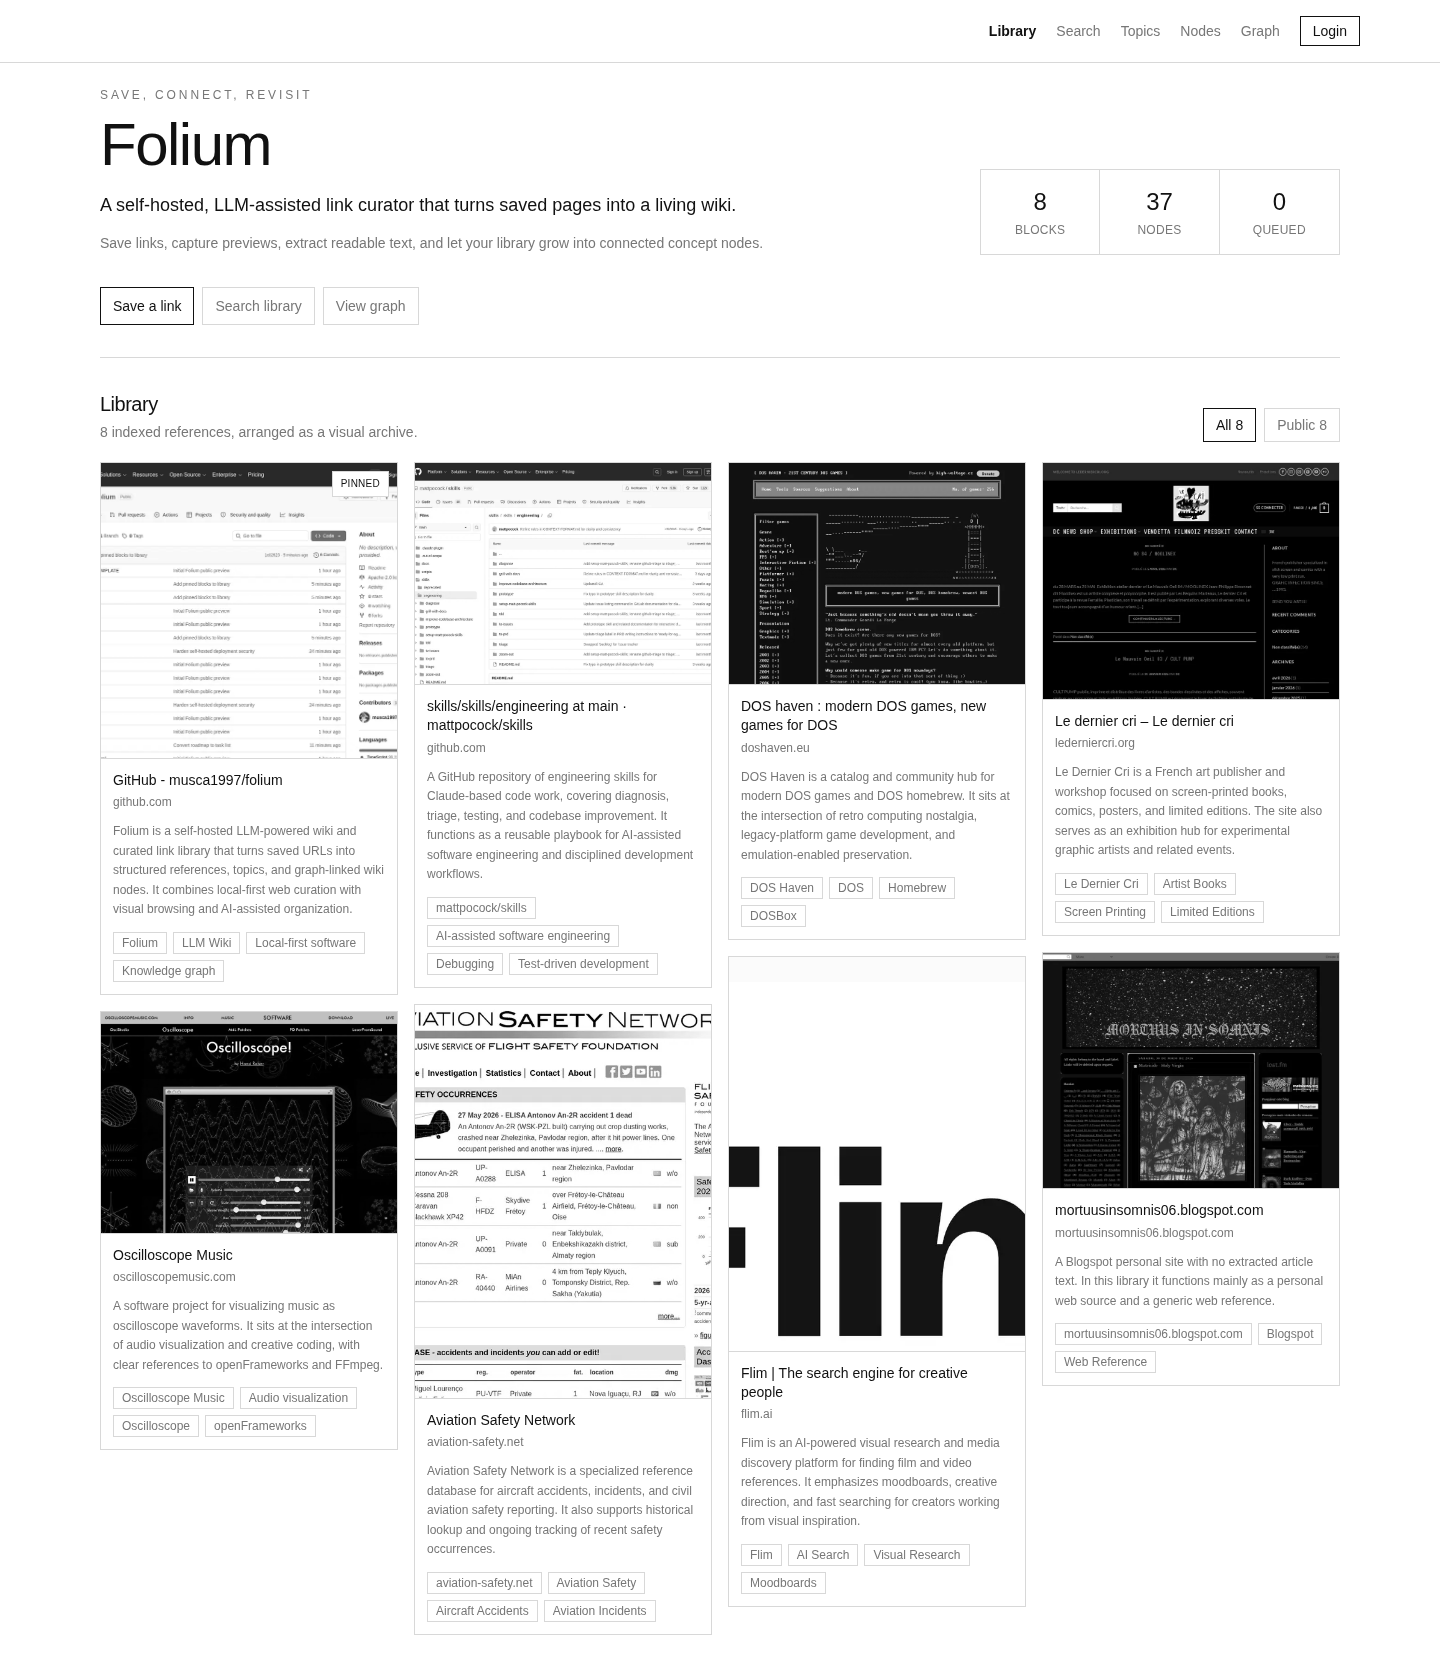
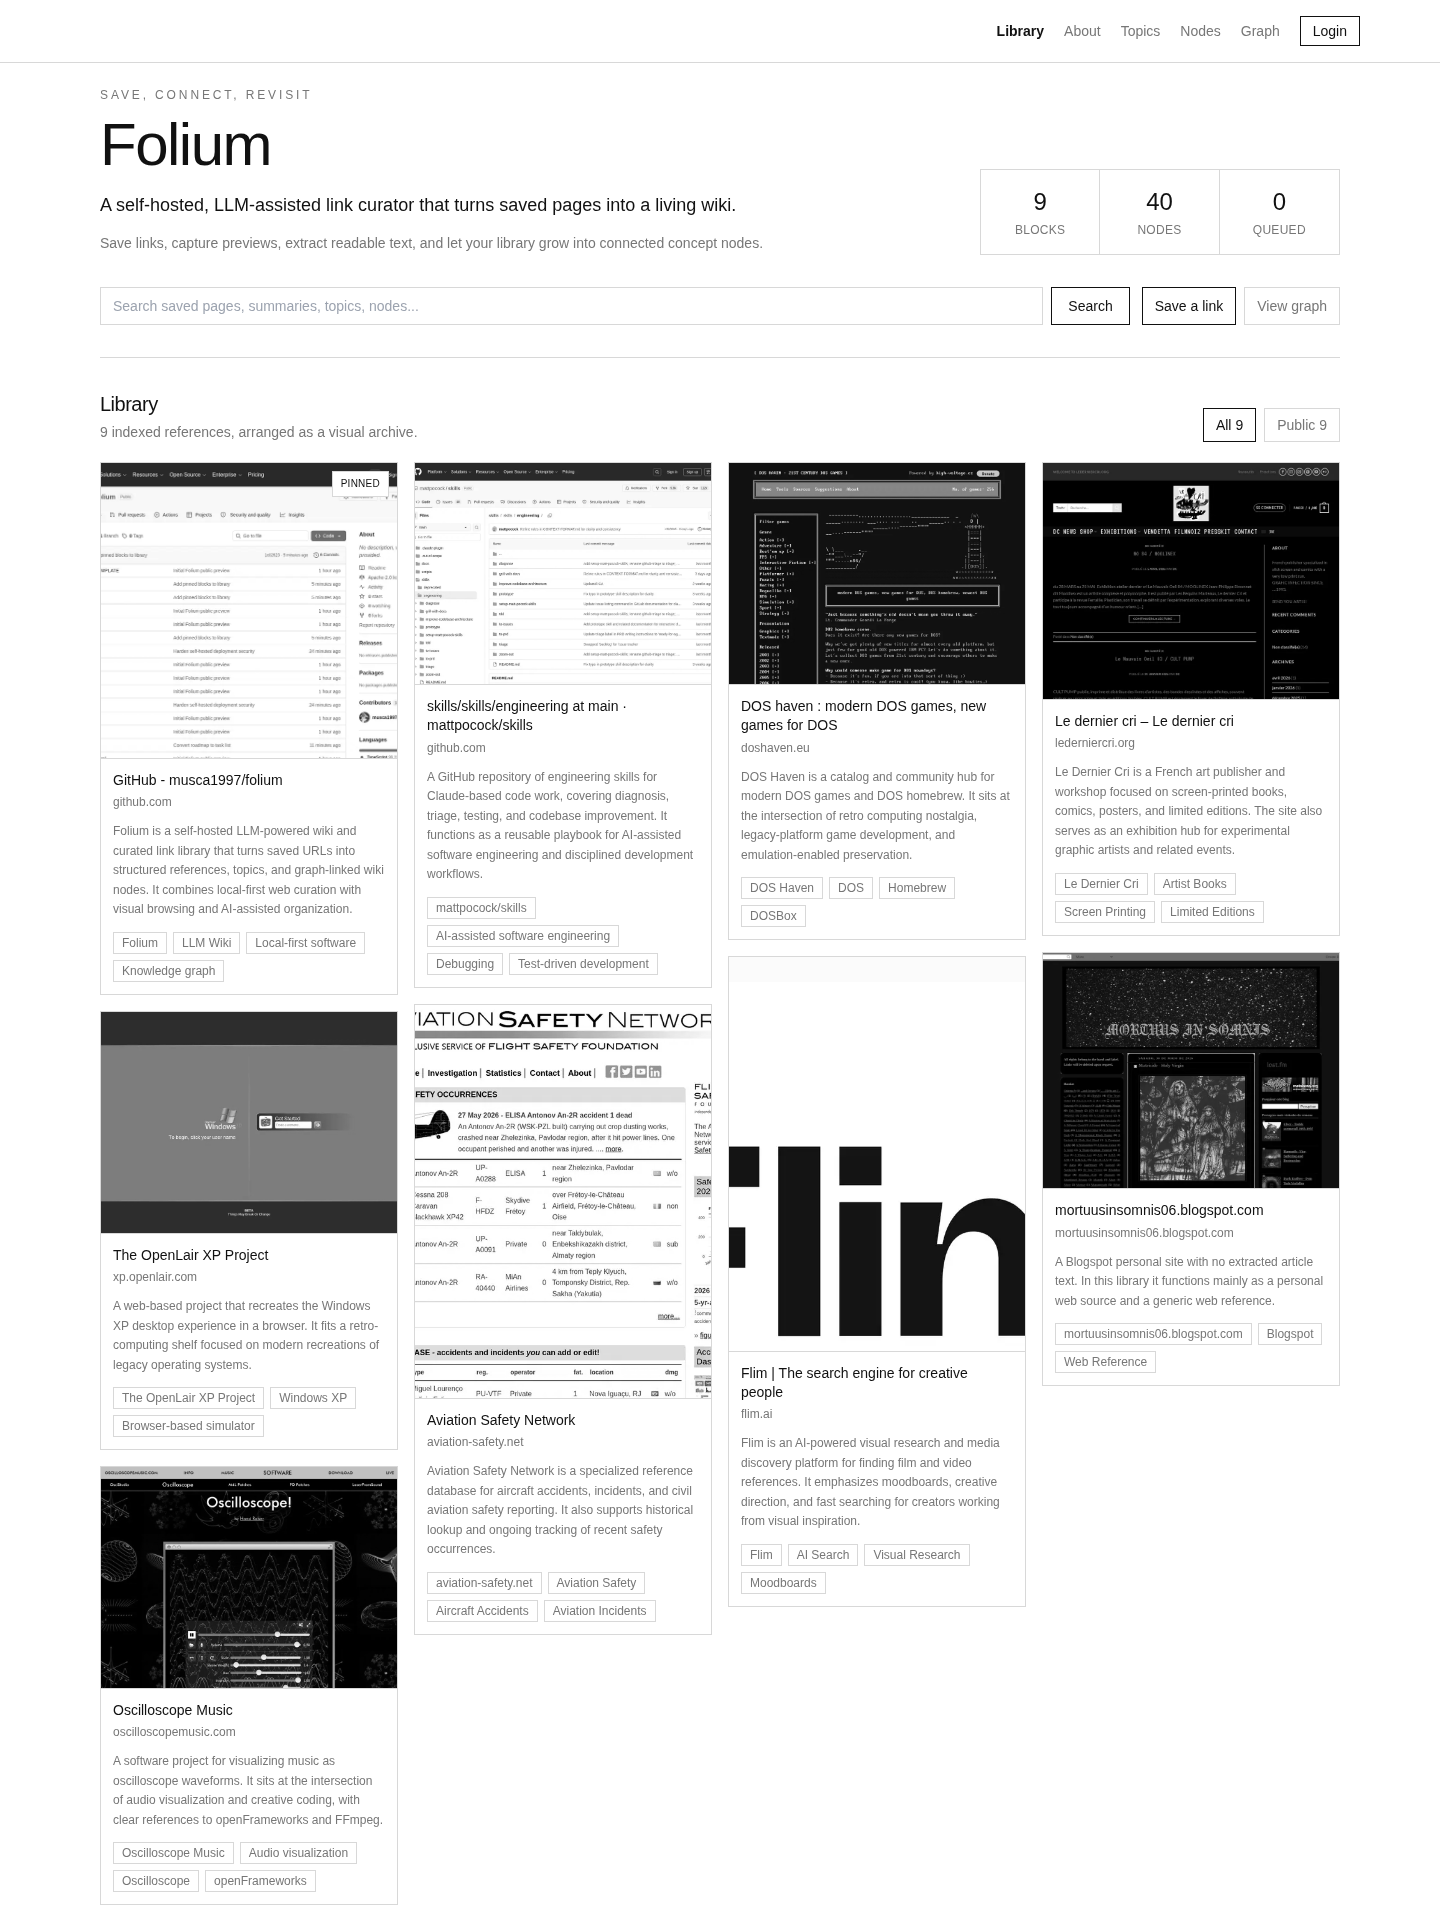
Move search to home and add about page

diff --git a/app/about/page.tsx b/app/about/page.tsx
@@ -1,0 +1,51 @@
+import Link from "next/link";
+import { Header } from "@/components/Header";
+import { PageIntro } from "@/components/PageIntro";
+
+export default function AboutPage() {
+  return (
+    <>
+      <Header />
+      <main className="mx-auto max-w-5xl px-5 py-6">
+        <PageIntro
+          eyebrow="About"
+          title="Folium is a quiet library for the web you keep."
+          description="A self-hosted, LLM-assisted link curator that turns saved pages into structured references, reusable topics, and a small personal wiki."
+        />
+
+        <section className="grid gap-6 md:grid-cols-3">
+          <div className="border border-line p-5">
+            <p className="text-xs uppercase tracking-wide text-muted">Save</p>
+            <p className="mt-3 text-sm leading-relaxed text-muted">
+              Save links with readable text extraction, visual previews, and private-by-default visibility.
+            </p>
+          </div>
+          <div className="border border-line p-5">
+            <p className="text-xs uppercase tracking-wide text-muted">Connect</p>
+            <p className="mt-3 text-sm leading-relaxed text-muted">
+              Let LLM analysis organize pages into broad topics, reusable wiki nodes, references, and graph connections.
+            </p>
+          </div>
+          <div className="border border-line p-5">
+            <p className="text-xs uppercase tracking-wide text-muted">Revisit</p>
+            <p className="mt-3 text-sm leading-relaxed text-muted">
+              Browse your library through a visual grid, search, topics, nodes, and a graph without turning it into a raw bookmark dump.
+            </p>
+          </div>
+        </section>
+
+        <section className="mt-8 border border-line p-6">
+          <h2 className="text-xl font-normal tracking-tight">Built for self-hosting</h2>
+          <p className="mt-3 max-w-3xl text-sm leading-relaxed text-muted">
+            Folium is currently designed as a single-user self-hosted app. Public browsing can be enabled for public blocks, while adding,
+            editing, processing, account settings, API tokens, and private content require login.
+          </p>
+          <div className="mt-5 flex flex-wrap gap-2 text-sm">
+            <Link href="/" className="border border-ink px-3 py-2 hover:bg-ink hover:text-white">Open library</Link>
+            <Link href="https://github.com/musca1997/folium" className="border border-line px-3 py-2 text-muted hover:border-ink hover:text-ink">GitHub</Link>
+          </div>
+        </section>
+      </main>
+    </>
+  );
+}

diff --git a/app/page.tsx b/app/page.tsx
@@ -71,21 +71,24 @@ export default async function HomePage({ searchParams }: { searchParams: Promise
             </div>
           </div>
 
-          <div className="mt-8 flex flex-wrap gap-2 text-sm">
-            <Link href="/add" className="border border-ink px-3 py-2 hover:bg-ink hover:text-white">
-              Save a link
-            </Link>
-            <Link href="/search" className="border border-line px-3 py-2 text-muted hover:border-ink hover:text-ink">
-              Search library
-            </Link>
-            <Link href="/graph" className="border border-line px-3 py-2 text-muted hover:border-ink hover:text-ink">
-              View graph
-            </Link>
-            {processingCount > 0 ? (
-              <Link href="/processing" className="border border-line px-3 py-2 text-muted hover:border-ink hover:text-ink">
-                {processingCount} processing
+          <div className="mt-8 grid gap-3 lg:grid-cols-[minmax(0,1fr)_auto] lg:items-center">
+            <form className="flex gap-2" action="/search">
+              <input name="q" placeholder="Search saved pages, summaries, topics, nodes..." className="min-w-0 flex-1 border border-line px-3 py-2 text-sm outline-none focus:border-ink" />
+              <button className="border border-ink px-4 py-2 text-sm hover:bg-ink hover:text-white">Search</button>
+            </form>
+            <div className="flex flex-wrap gap-2 text-sm">
+              <Link href="/add" className="border border-ink px-3 py-2 hover:bg-ink hover:text-white">
+                Save a link
               </Link>
-            ) : null}
+              <Link href="/graph" className="border border-line px-3 py-2 text-muted hover:border-ink hover:text-ink">
+                View graph
+              </Link>
+              {processingCount > 0 ? (
+                <Link href="/processing" className="border border-line px-3 py-2 text-muted hover:border-ink hover:text-ink">
+                  {processingCount} processing
+                </Link>
+              ) : null}
+            </div>
           </div>
         </section>
 

diff --git a/components/Header.tsx b/components/Header.tsx
@@ -9,7 +9,7 @@ export async function Header() {
       <nav className="mx-auto flex max-w-7xl items-center justify-end text-sm">
         <div className="flex items-center gap-5 text-muted">
           <Link href="/" className="font-semibold text-ink">Library</Link>
-          <Link href="/search">Search</Link>
+          <Link href="/about">About</Link>
           <Link href="/topics">Topics</Link>
           <Link href="/nodes">Nodes</Link>
           <Link href="/graph">Graph</Link>
